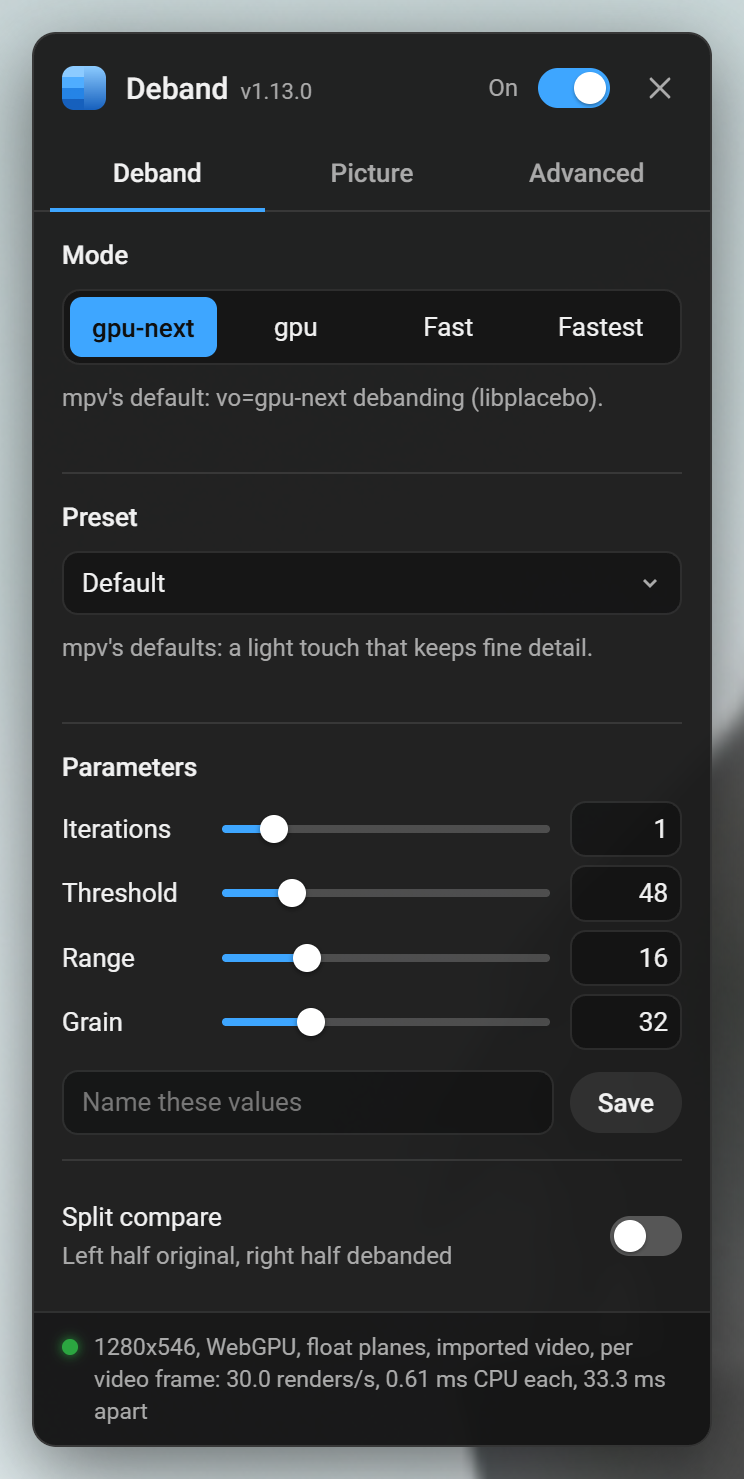
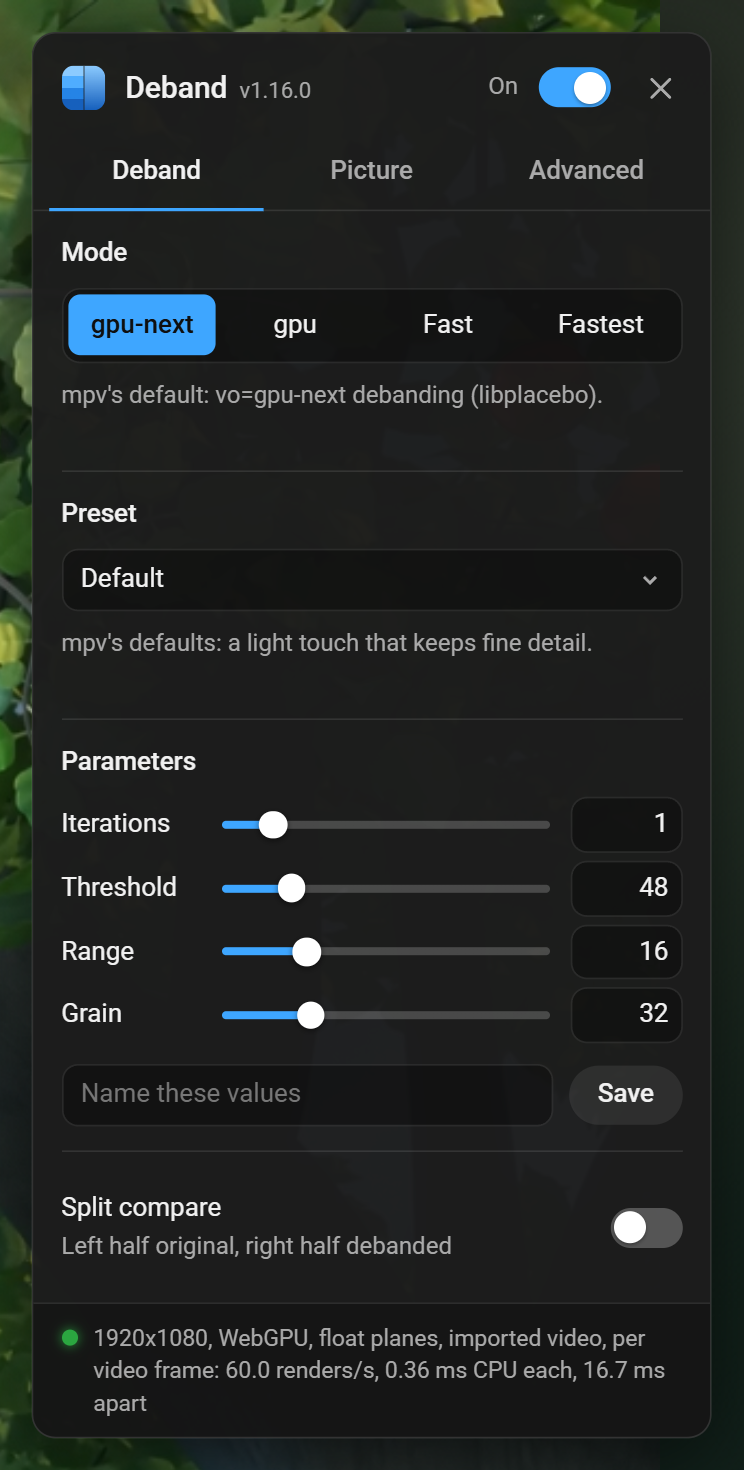
Show all three panel tabs and clearer comparisons in the README
The settings panel screenshots now cover Deband, Picture and Advanced.
The before/after images show the same crop side by side, from Sintel's
1080p stream at its own pixel size, with a contrast-stretched row that
makes the steps visible: a desert sky, fog and a dark cave. They replace
the split-frame images. A new image compares YouTube's Ambient mode glow
with the smoothed one.

diff --git a/README.md b/README.md
@@ -4,10 +4,11 @@ A userscript that removes color banding from YouTube video in the browser, using
 WebGPU and WebGL ports of [mpv](https://mpv.io/)'s deband shaders with mpv's own
 parameters.
 
-![Original vs debanded, foggy sky](docs/sky.png)
+![Original vs debanded, desert sky, with a contrast-boosted row below](docs/deband-sky.png)
 
-<sub>Left half: the video as the browser shows it. Right half: debanded. YouTube's 720p
-stream of Sintel at 0:35, default settings; more in [Comparison](#comparison).</sub>
+<sub>Left: the video as the browser shows it. Right: debanded with the default settings.
+The bottom row stretches the contrast 5× so the steps show on any screen. YouTube's
+1080p stream of Sintel at 6:10, at its own pixel size; more in [Comparison](#comparison).</sub>
 
 **Features**
 
@@ -45,8 +46,9 @@ Both shortcuts can be re-recorded on the panel's **Advanced** tab.
 ### Settings panel
 
 <p>
-  <img src="docs/panel-deband.png" width="372" align="top" alt="Settings panel, Deband tab: mode, preset, the four parameters and split compare">
-  <img src="docs/panel-picture.png" width="372" align="top" alt="Settings panel, Picture tab: codec, quality, chroma upscaling, YCbCr matrix, luma snapping and dither">
+  <img src="docs/panel-deband.png" width="270" align="top" alt="Settings panel, Deband tab: mode, preset, the four parameters and split compare">
+  <img src="docs/panel-picture.png" width="270" align="top" alt="Settings panel, Picture tab: codec, quality, chroma upscaling, YCbCr matrix, luma snapping, dither and Smooth Ambient mode">
+  <img src="docs/panel-advanced.png" width="270" align="top" alt="Settings panel, Advanced tab: renderer, upload format, shortcuts, import from mpv and reset">
 </p>
 
 The panel has three tabs:
@@ -120,25 +122,23 @@ example one for network streams, which is what YouTube is.
 
 ## Comparison
 
-Banding is easiest to see with the contrast boosted (both halves get the same
-curve). Left half original, right half debanded:
+Each image shows the same part of one frame of YouTube's 1080p stream of
+Sintel, at its own pixel size: original on the left, debanded with the default
+settings on the right. Banding is a step of one or two code values, which is
+easy to miss in a screenshot on a bright screen but hard to unsee on a large
+one in a dark room, so the bottom row stretches the contrast of both sides by
+the same factor.
 
-![Original vs debanded, contrast boosted](docs/sky-boosted.png)
+Fog at 0:38, where the original turns out to be a patchwork of flat blocks:
 
-![Original vs debanded, sunset at 5:10, contrast boosted](docs/sunset-boosted.png)
+![Original vs debanded, fog, with a contrast-boosted row below](docs/deband-fog.png)
+
+A dark cave at 10:40. Near-black areas band the most, since the encoder spends
+the fewest bits there:
+
+![Original vs debanded, dark cave, with a contrast-boosted row below](docs/deband-dark.png)
 
 <sub>Sintel © Blender Foundation, [CC BY 3.0](https://creativecommons.org/licenses/by/3.0/), [durian.blender.org](https://durian.blender.org)</sub>
-
-Near-black backgrounds band too. A talking-head video at 720p, 0:10:
-
-![Original vs debanded, dark background](docs/dark.png)
-
-With the darkest 8% stretched to full range, the original's background turns
-out to be a few flat blocks of brightness:
-
-![Original vs debanded, dark background, shadows lifted](docs/dark-boosted.png)
-
-<sub>Frame from [the largest hack. ever.](https://www.youtube.com/watch?v=_HaySrzDyWU) by voidzilla</sub>
 
 ## Modes
 
@@ -289,6 +289,12 @@ Shorts, and in fullscreen when the video doesn't fill the screen. It bands
 badly, and not because of the video: YouTube draws a blurred storyboard
 thumbnail into a canvas of about 110×75 pixels and lets the browser stretch
 it over an area up to twice the player's size, rounding the result to 8 bits.
+
+![YouTube's Ambient mode glow vs the smoothed one, plain and contrast boosted](docs/ambient.png)
+
+<sub>The glow left of the player in theater mode, Big Buck Bunny at 2:27, paused.
+Left to right: YouTube's, smoothed, and both with the contrast stretched 5×.
+Big Buck Bunny © Blender Foundation, [CC BY 3.0](https://creativecommons.org/licenses/by/3.0/).</sub>
 
 **Smooth Ambient mode** on the Picture tab (on by default) redraws it on a
 canvas of its own at the screen's resolution, from YouTube's own small
